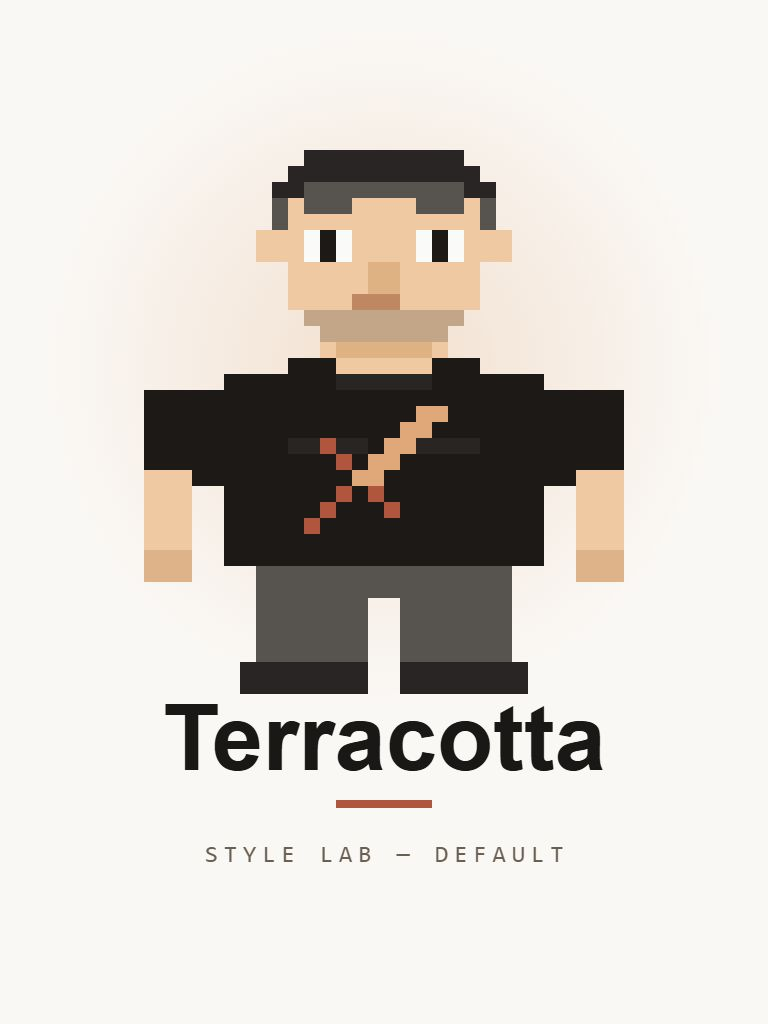
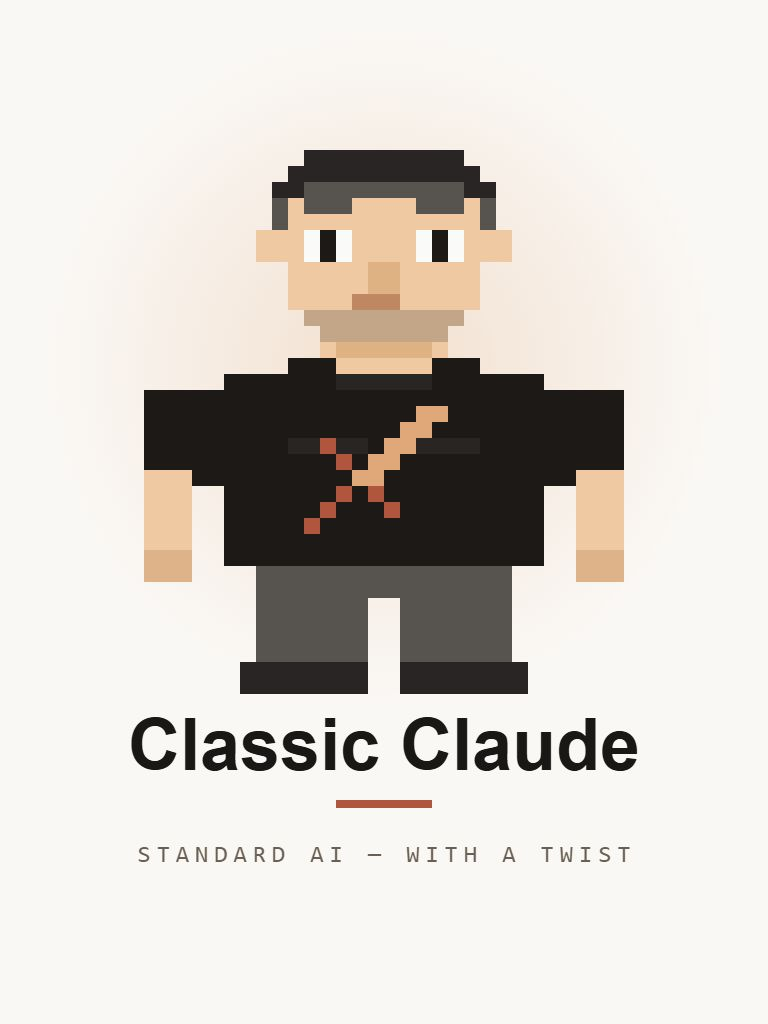
feat: rename main entry to Classic Claude with regenerated poster

diff --git a/scripts/posters/main-poster.html b/scripts/posters/main-poster.html
@@ -87,10 +87,10 @@
 
   // Title
   g.fillStyle = '#1a1816'
-  g.font = '700 92px Arial, Helvetica, sans-serif'
+  g.font = '700 72px Arial, Helvetica, sans-serif'
   g.textAlign = 'center'
   g.textBaseline = 'alphabetic'
-  g.fillText('Terracotta', cx, typeTop)
+  g.fillText('Classic Claude', cx, typeTop)
 
   // Terracotta heading rule
   g.fillStyle = '#b0563d'
@@ -100,7 +100,7 @@
   // Subtitle — uppercase letterspaced mono
   g.fillStyle = '#6b5f52'
   g.font = '400 24px monospace'
-  const label = 'STYLE LAB — DEFAULT'
+  const label = 'STANDARD AI — WITH A TWIST'
   const ls = 6 // letter spacing in px
   let total = 0
   const widths = []

diff --git a/lib/labs-manifest.ts b/lib/labs-manifest.ts
@@ -30,12 +30,12 @@ export type LabEntry = {
 export const labs: LabEntry[] = [
   {
     slug: 'main',
-    title: 'Terracotta',
+    title: 'Classic Claude',
     date: '2026-07-08',
     thesis:
-      'The daily driver — warm terracotta and cream, pixel avatar, Bricolage Grotesque. The control every experiment is measured against.',
+      'Standard AI with a twist — warm terracotta and cream, pixel avatar, Bricolage Grotesque. The control every experiment is measured against.',
     status: 'live',
-    href: '/',
+    href: '/classic-claude',
   },
   {
     slug: 'ps1',

diff --git a/__tests__/labs/manifest.test.ts b/__tests__/labs/manifest.test.ts
@@ -25,4 +25,12 @@ describe('labs manifest attic split', () => {
     expect(xp!.title).toBe('Bliss')
     expect(xp!.status).toBe('live')
   })
+
+  it('demotes the main site to a hall painting at /classic-claude', () => {
+    const main = hallLabs.find((l) => l.slug === 'main')
+    expect(main).toBeDefined()
+    expect(main!.title).toBe('Classic Claude')
+    expect(main!.href).toBe('/classic-claude')
+    expect(main!.status).toBe('live')
+  })
 })
